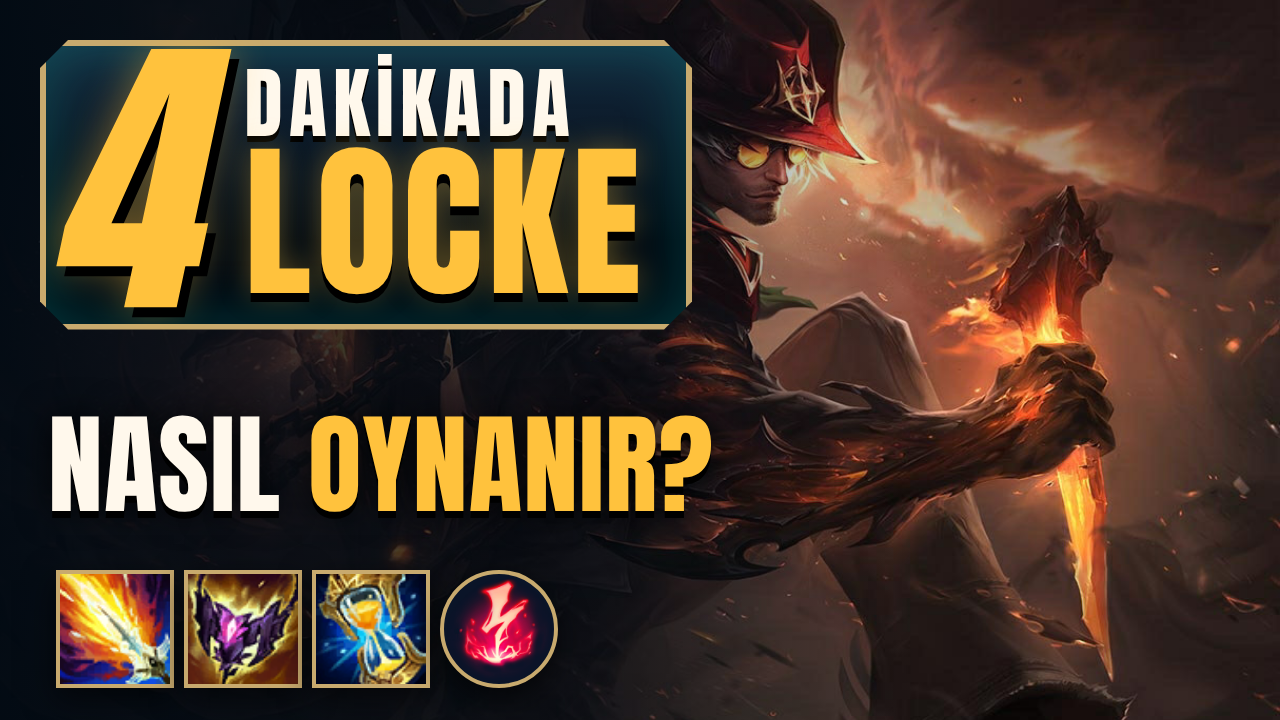
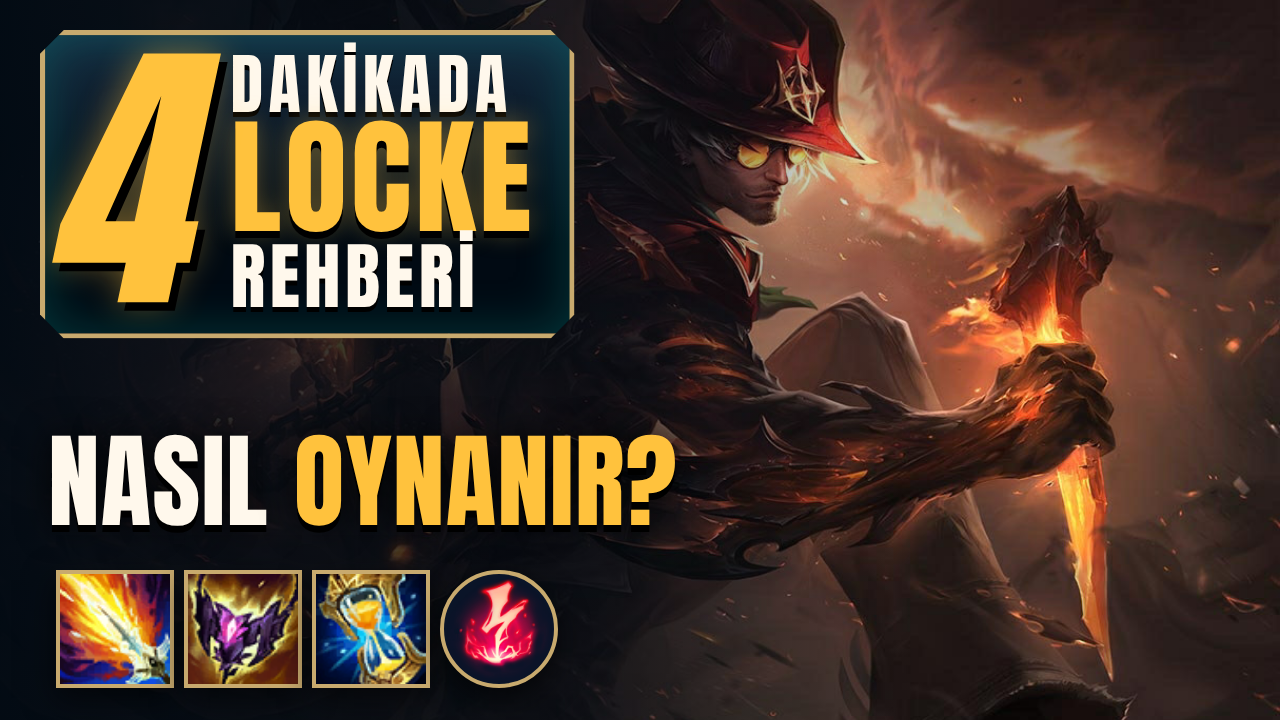
Locke thumbnails: 4 DAKIKADA LOCKE REHBERI plate; title 3 updated
Claude-Session: https://claude.ai/code/session_01VWJcfXarfFhihs2wYjUAhz

Changed region(s): [[0.0312, 0.0306, 0.5625, 0.4889], [0.0312, 0.5806, 0.5625, 0.7333]]

diff --git a/lol/locke/build/thumbs.html b/lol/locke/build/thumbs.html
@@ -12,10 +12,11 @@ html,body{margin:0;background:#000}
 .y{color:#FFC23D}.r{color:#FF3B4E}
 /* BIG "4 DAKIKADA LOCKE" plate */
 .plate{position:absolute;display:flex;align-items:center;gap:6px;padding:18px 40px 22px 26px;background:linear-gradient(180deg,#14283c,#010A13 70%);border:6px solid #C8AA6E;box-shadow:0 0 0 4px #010A13,0 0 0 8px rgba(200,170,110,.5),0 20px 50px rgba(0,0,0,.7),inset 0 0 60px rgba(10,200,185,.25);clip-path:polygon(28px 0,calc(100% - 28px) 0,100% 28px,100% calc(100% - 28px),calc(100% - 28px) 100%,28px 100%,0 calc(100% - 28px),0 28px)}
-.plate .n4{font-size:300px;line-height:.82;color:#FFC23D;transform:skewX(-12deg);text-shadow:10px 10px 0 #000,0 0 40px rgba(255,194,61,.45);margin:-30px 18px -24px 0}
+.plate .n4{font-size:340px;line-height:.82;color:#FFC23D;transform:skewX(-12deg);text-shadow:10px 10px 0 #000,0 0 40px rgba(255,194,61,.45);margin:-30px 18px -24px 0}
 .plate .st{display:flex;flex-direction:column;line-height:1}
 .plate .d{font-size:78px;color:#FFF8EC;letter-spacing:.08em;text-shadow:0 6px 0 #000}
-.plate .l{font-size:168px;color:#FFC23D;letter-spacing:.03em;line-height:.95;text-shadow:0 9px 0 #000,0 0 30px rgba(255,194,61,.35)}
+.plate .rb{font-size:86px;color:#FFF8EC;letter-spacing:.06em;line-height:1.05;text-shadow:0 6px 0 #000}
+.plate .l{font-size:150px;color:#FFC23D;letter-spacing:.03em;line-height:.95;text-shadow:0 9px 0 #000,0 0 30px rgba(255,194,61,.35)}
 .ic{position:absolute;border:4px solid #C8AA6E;box-shadow:0 10px 30px rgba(0,0,0,.6)}
 </style></head><body>
 
@@ -24,7 +25,7 @@ html,body{margin:0;background:#000}
  <div class="bg" style="background:linear-gradient(90deg,rgba(1,10,19,.92) 0,rgba(1,10,19,.55) 42%,rgba(1,10,19,0) 68%)"></div>
  <div class="t" style="left:48px;top:28px;font-size:100px">DOĞRULUK MU,</div>
  <div class="t r" style="left:48px;top:140px;font-size:120px;transform:rotate(-2deg);transform-origin:left">ÇİVİLENMEK Mİ?</div>
- <div class="plate" style="left:40px;top:330px"><div class="n4">4</div><div class="st"><div class="d">DAKİKADA</div><div class="l">LOCKE</div></div></div>
+ <div class="plate" style="left:40px;top:290px;transform:scale(.92);transform-origin:left top"><div class="n4">4</div><div class="st"><div class="d">DAKİKADA</div><div class="l">LOCKE</div><div class="rb">REHBERİ</div></div></div>
 </div>
 
 <!-- 2: NOCTURNE'E NE DEDI -->
@@ -35,14 +36,14 @@ html,body{margin:0;background:#000}
  <img class="ic" src="assets/champ_Nocturne.png" style="left:270px;top:40px;width:120px;border-radius:14px;border-color:#FF3B4E">
  <div class="t" style="left:48px;top:178px;font-size:96px">NOCTURNE'E</div>
  <div class="t r" style="left:48px;top:282px;font-size:96px;transform:rotate(-2deg);transform-origin:left">NE DEDİ?!</div>
- <div class="plate" style="left:40px;top:420px;padding:12px 32px 16px 20px;transform:scale(.86);transform-origin:left top"><div class="n4">4</div><div class="st"><div class="d">DAKİKADA</div><div class="l">LOCKE</div></div></div>
+ <div class="plate" style="left:40px;top:390px;padding:12px 32px 16px 20px;transform:scale(.78);transform-origin:left top"><div class="n4">4</div><div class="st"><div class="d">DAKİKADA</div><div class="l">LOCKE</div><div class="rb">REHBERİ</div></div></div>
 </div>
 
 <!-- 3: NASIL OYNANIR + build -->
 <div id="t3" class="th"><div class="bg" style="background-image:url(assets/splash_1.jpg);background-position:65% 25%"></div>
  <div class="bg" style="background:linear-gradient(90deg,rgba(1,10,19,.95) 0,rgba(1,10,19,.6) 46%,rgba(1,10,19,0) 72%)"></div>
- <div class="plate" style="left:40px;top:40px"><div class="n4">4</div><div class="st"><div class="d">DAKİKADA</div><div class="l">LOCKE</div></div></div>
- <div class="t" style="left:48px;top:400px;font-size:110px">NASIL <span class="y">OYNANIR?</span></div>
+ <div class="plate" style="left:40px;top:30px;transform:scale(.85);transform-origin:left top"><div class="n4">4</div><div class="st"><div class="d">DAKİKADA</div><div class="l">LOCKE</div><div class="rb">REHBERİ</div></div></div>
+ <div class="t" style="left:48px;top:420px;font-size:104px">NASIL <span class="y">OYNANIR?</span></div>
  <img class="ic" src="assets/item_3100.png" style="left:56px;top:570px;width:110px">
  <img class="ic" src="assets/item_4645.png" style="left:184px;top:570px;width:110px">
  <img class="ic" src="assets/item_3157.png" style="left:312px;top:570px;width:110px">

diff --git a/lol/locke/metadata.md b/lol/locke/metadata.md
@@ -3,7 +3,7 @@
 ## Başlık ve thumbnail (3 seçenek)
 1. **Doğruluk mu, Çivilenmek mi? 4 Dakikada Locke Rehberi** → `export/kanal/locke_thumb1.png`
 2. **Locke Nocturne'e Ne Dedi?! 4 Dakikada Locke Rehberi | LoL Türkçe** → `export/kanal/locke_thumb2.png`
-3. **Locke Nasıl Oynanır? 4 Dakikada Build, Rün ve Kombo | Yeni Şampiyon** → `export/kanal/locke_thumb3.png`
+3. **Locke Nasıl Oynanır? 4 Dakikada Locke Rehberi | Build, Rün, Kombo** → `export/kanal/locke_thumb3.png`
 
 ## Açıklama
 Locke sana "Doğruluk mu, çivilenmek mi?" diye sorduysa cevabın önemli değil, kafana üç çivi yiyeceksin. Bu videoda LoL'ün yeni şampiyonu Locke'u, yani Kefaretin Küllerini 4 dakikada öğreniyorsun: pasif, Q, W, E ve ulti nasıl çalışır, kombolar, kolay ve zor eşleşmeler, güncel rün ve eşya buildi, yetenek sırası, early game, mid game ve late game planı. Arada da Locke'un diğer şampiyonlara soktuğu laflar var, en acımasızı en sonda.
